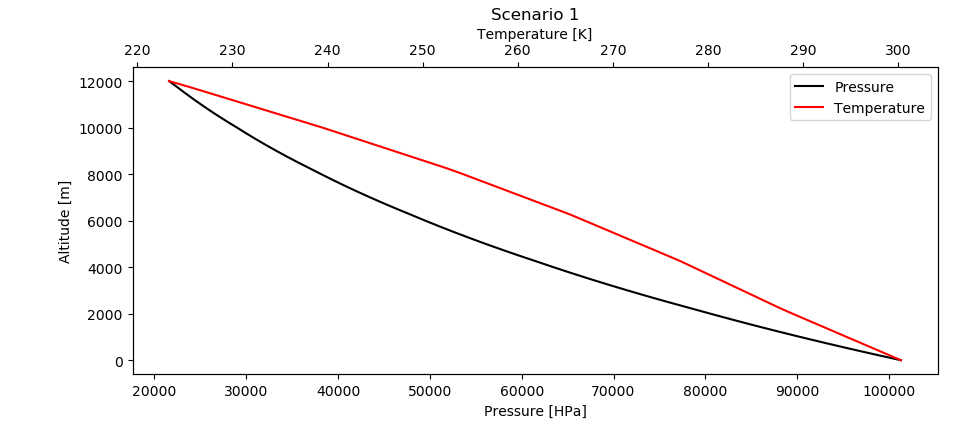
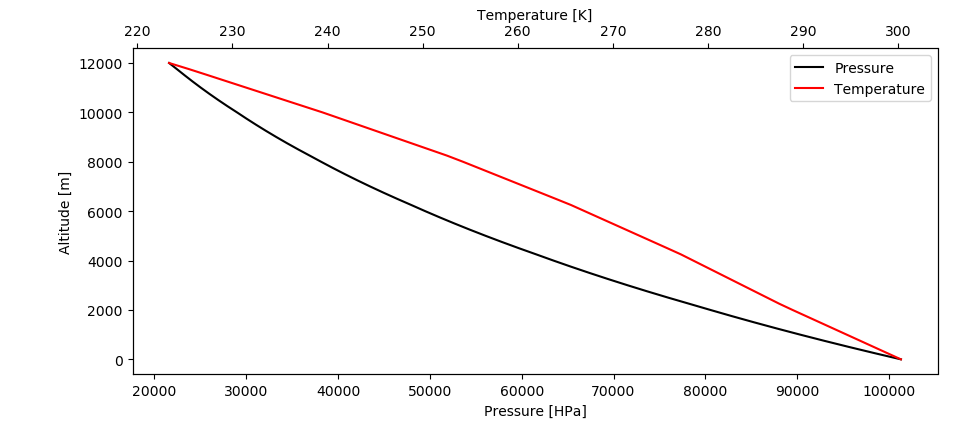
plots added

diff --git a/ENTICE_INS/ENTICE_cloud_plots.py b/ENTICE_INS/ENTICE_cloud_plots.py
@@ -75,7 +75,7 @@ l2 = ax2.plot(T, z, c='r')
 ax1.set_xlabel('Pressure [HPa]')
 ax2.set_xlabel('Temperature [K]')
 ax1.set_ylabel('Altitude [m]')
-plt.title("Scenario 1")
+#plt.title("Scenario 1")
 black_line = mlines.Line2D([], [], color='k', label='Pressure')
 red_line = mlines.Line2D([], [], color='r', label='Temperature')
 plt.legend(handles=[black_line, red_line])
